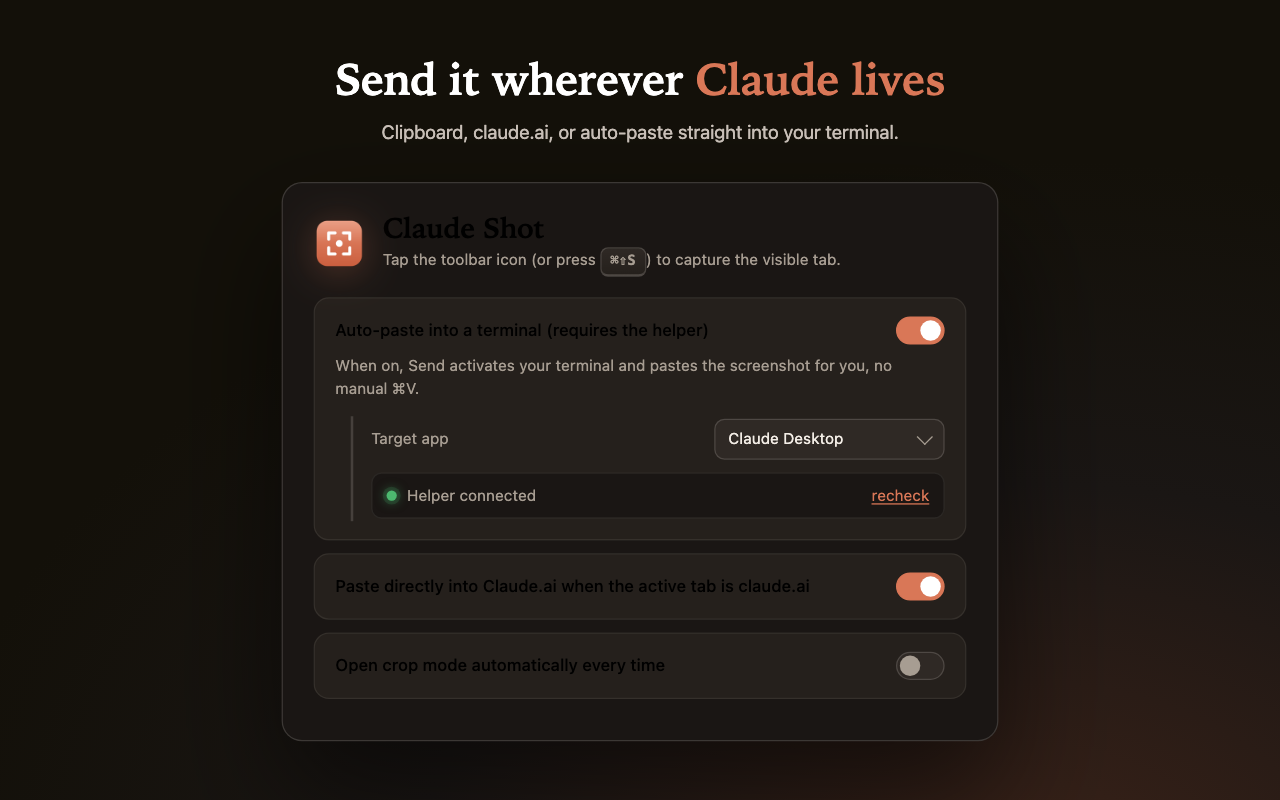
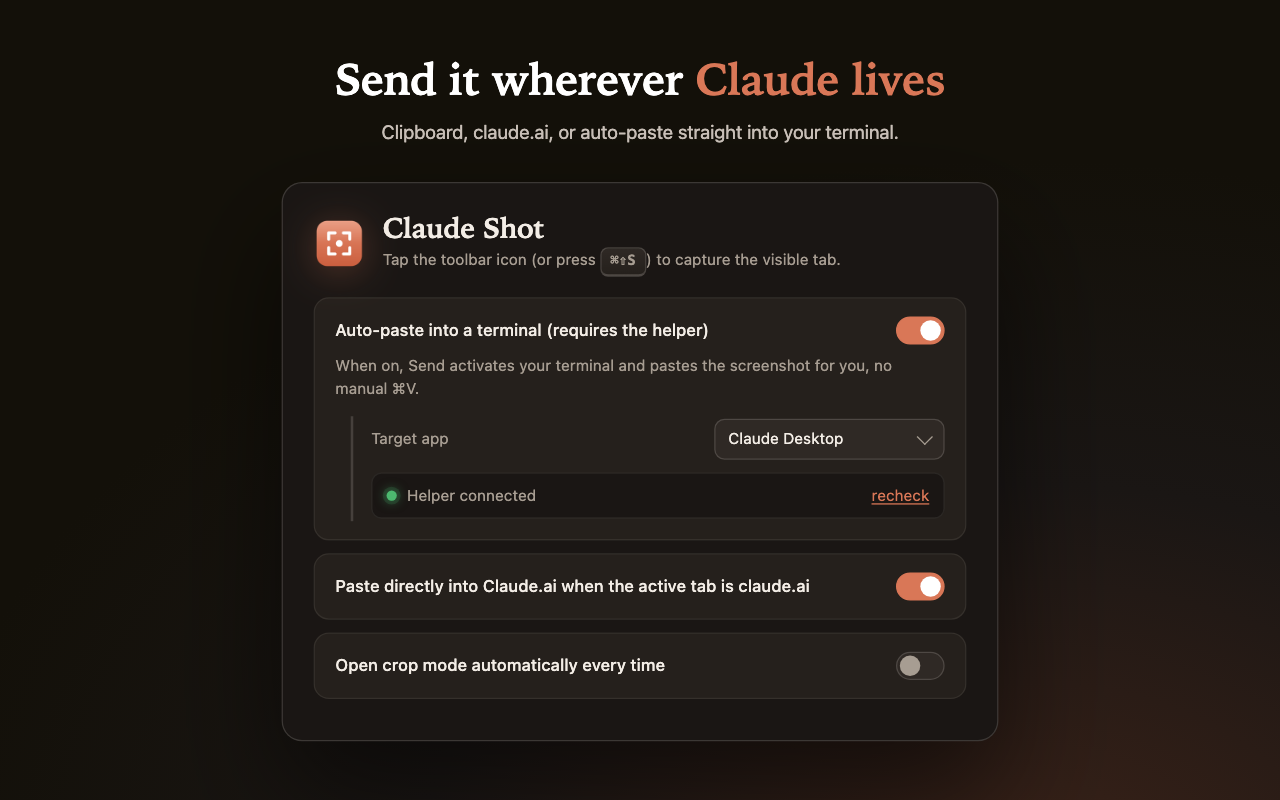
Fix black text in shot-3 store screenshot
The redesigned options mockup's panel set no text color, so the title and toggle
labels fell back to black on the dark panel. Set main{color:var(--text)} and
re-render.

diff --git a/store-assets/shot-3.html b/store-assets/shot-3.html
@@ -19,8 +19,8 @@
   .panelwrap{margin-top:36px;transform:scale(1.28);transform-origin:top center;}
 
   /* real options styling */
-  main{padding:22px 24px;width:560px;background:var(--bg);border:1px solid var(--border-strong);
-    border-radius:16px;box-shadow:0 40px 90px rgba(0,0,0,.55);}
+  main{padding:22px 24px;width:560px;background:var(--bg);color:var(--text);
+    border:1px solid var(--border-strong);border-radius:16px;box-shadow:0 40px 90px rgba(0,0,0,.55);}
   .page-head{display:flex;align-items:center;gap:14px;margin-bottom:16px;}
   .page-head img{width:40px;height:40px;border-radius:9px;
     filter:drop-shadow(0 4px 14px rgba(217,119,87,.3));}